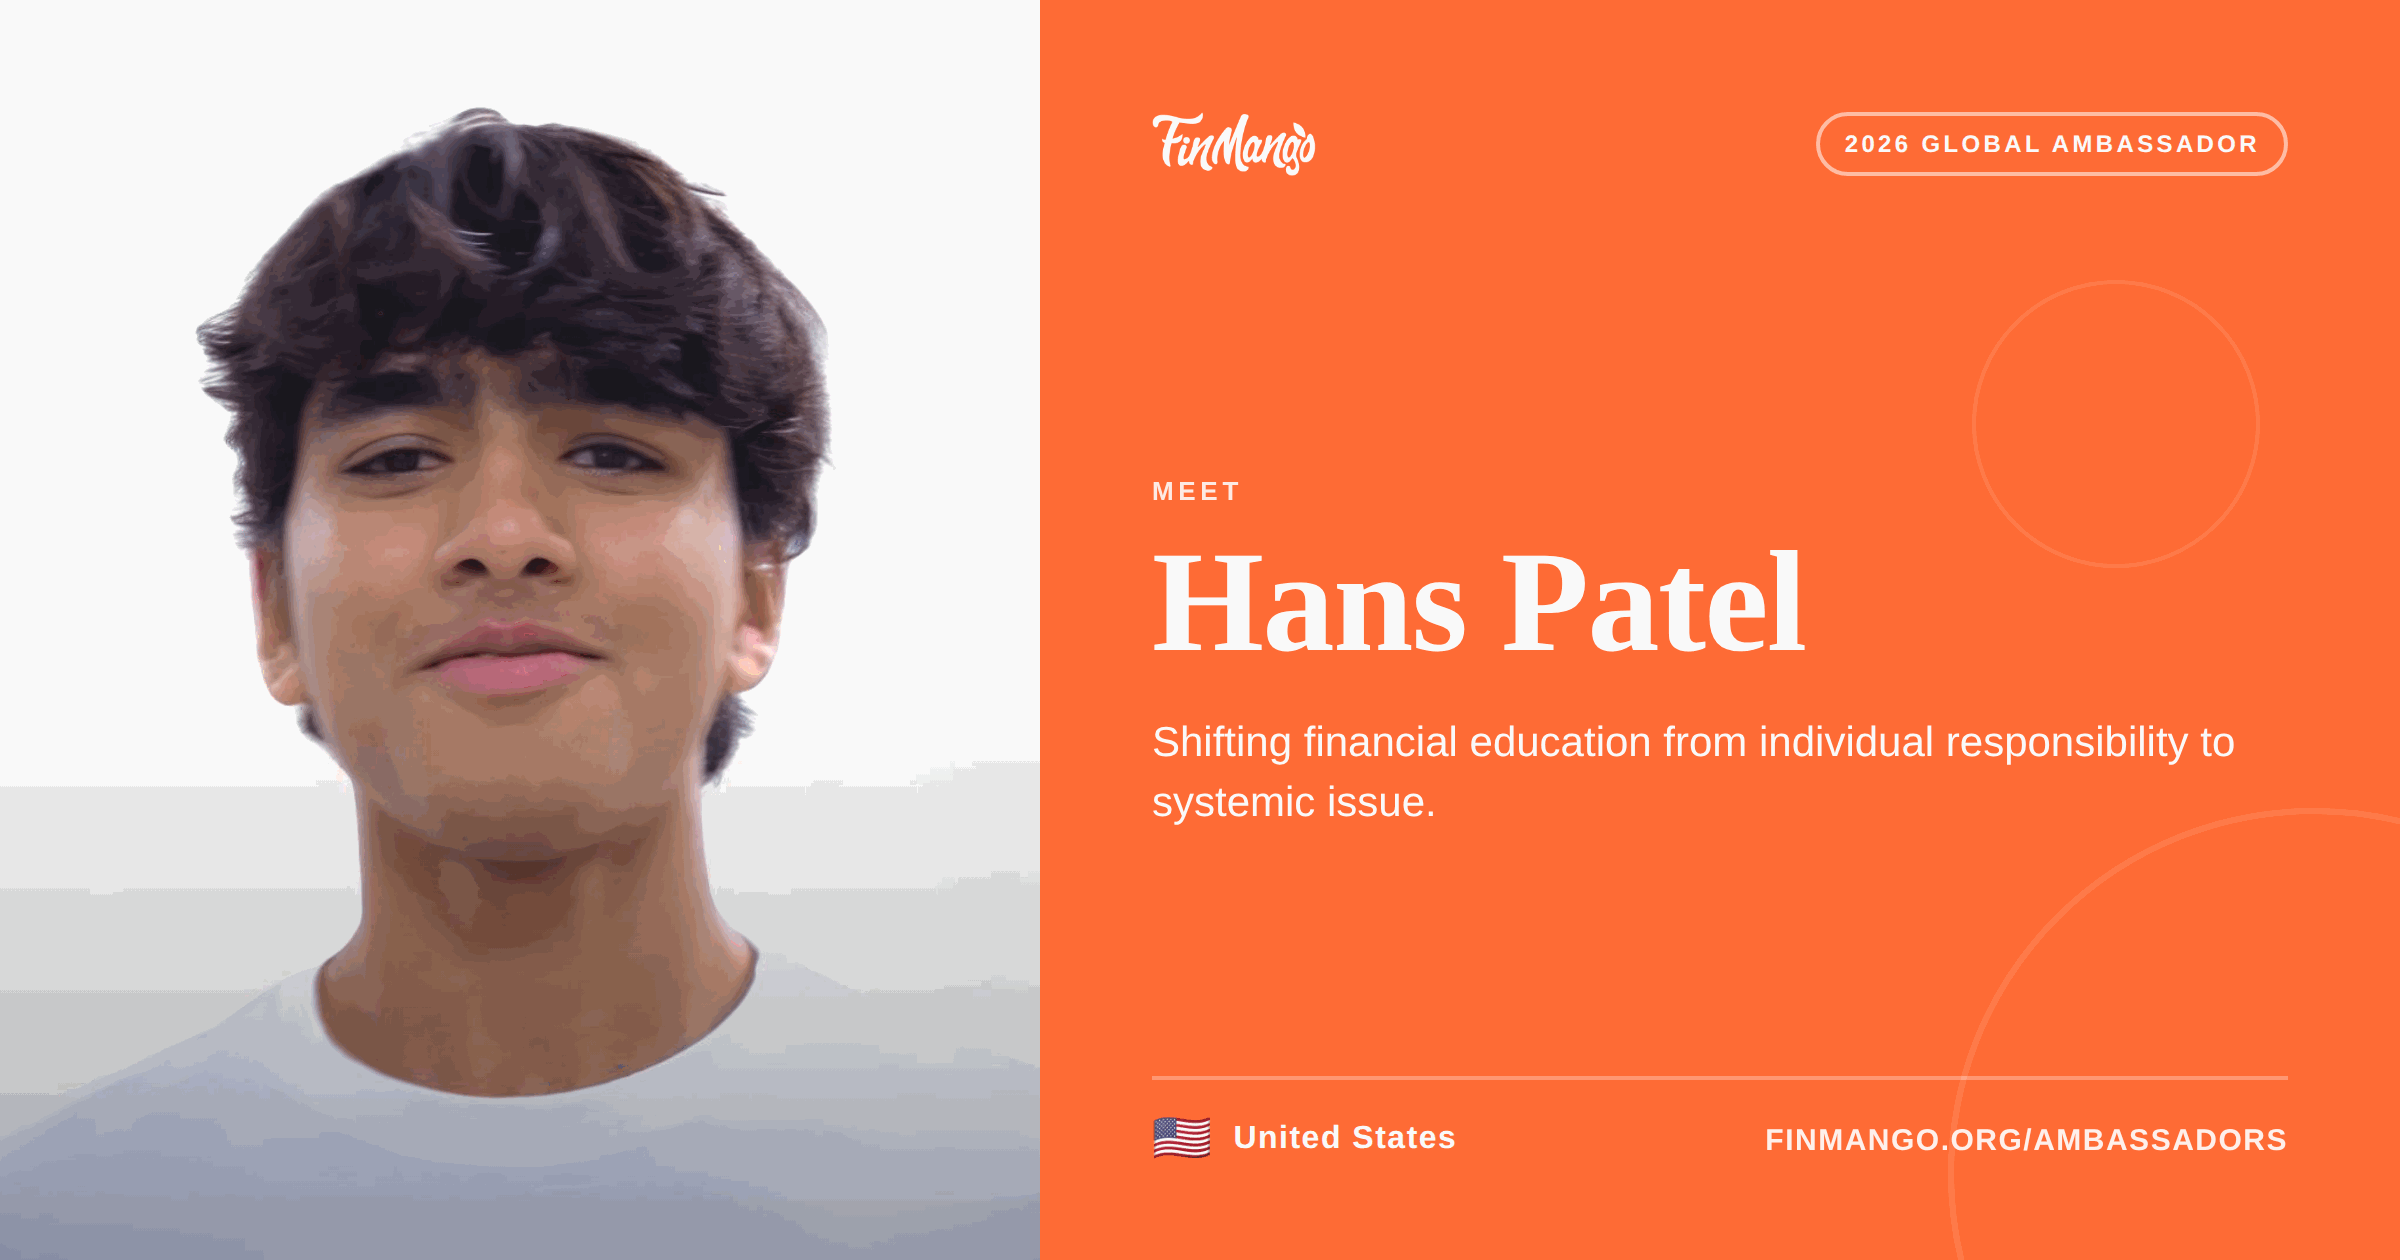
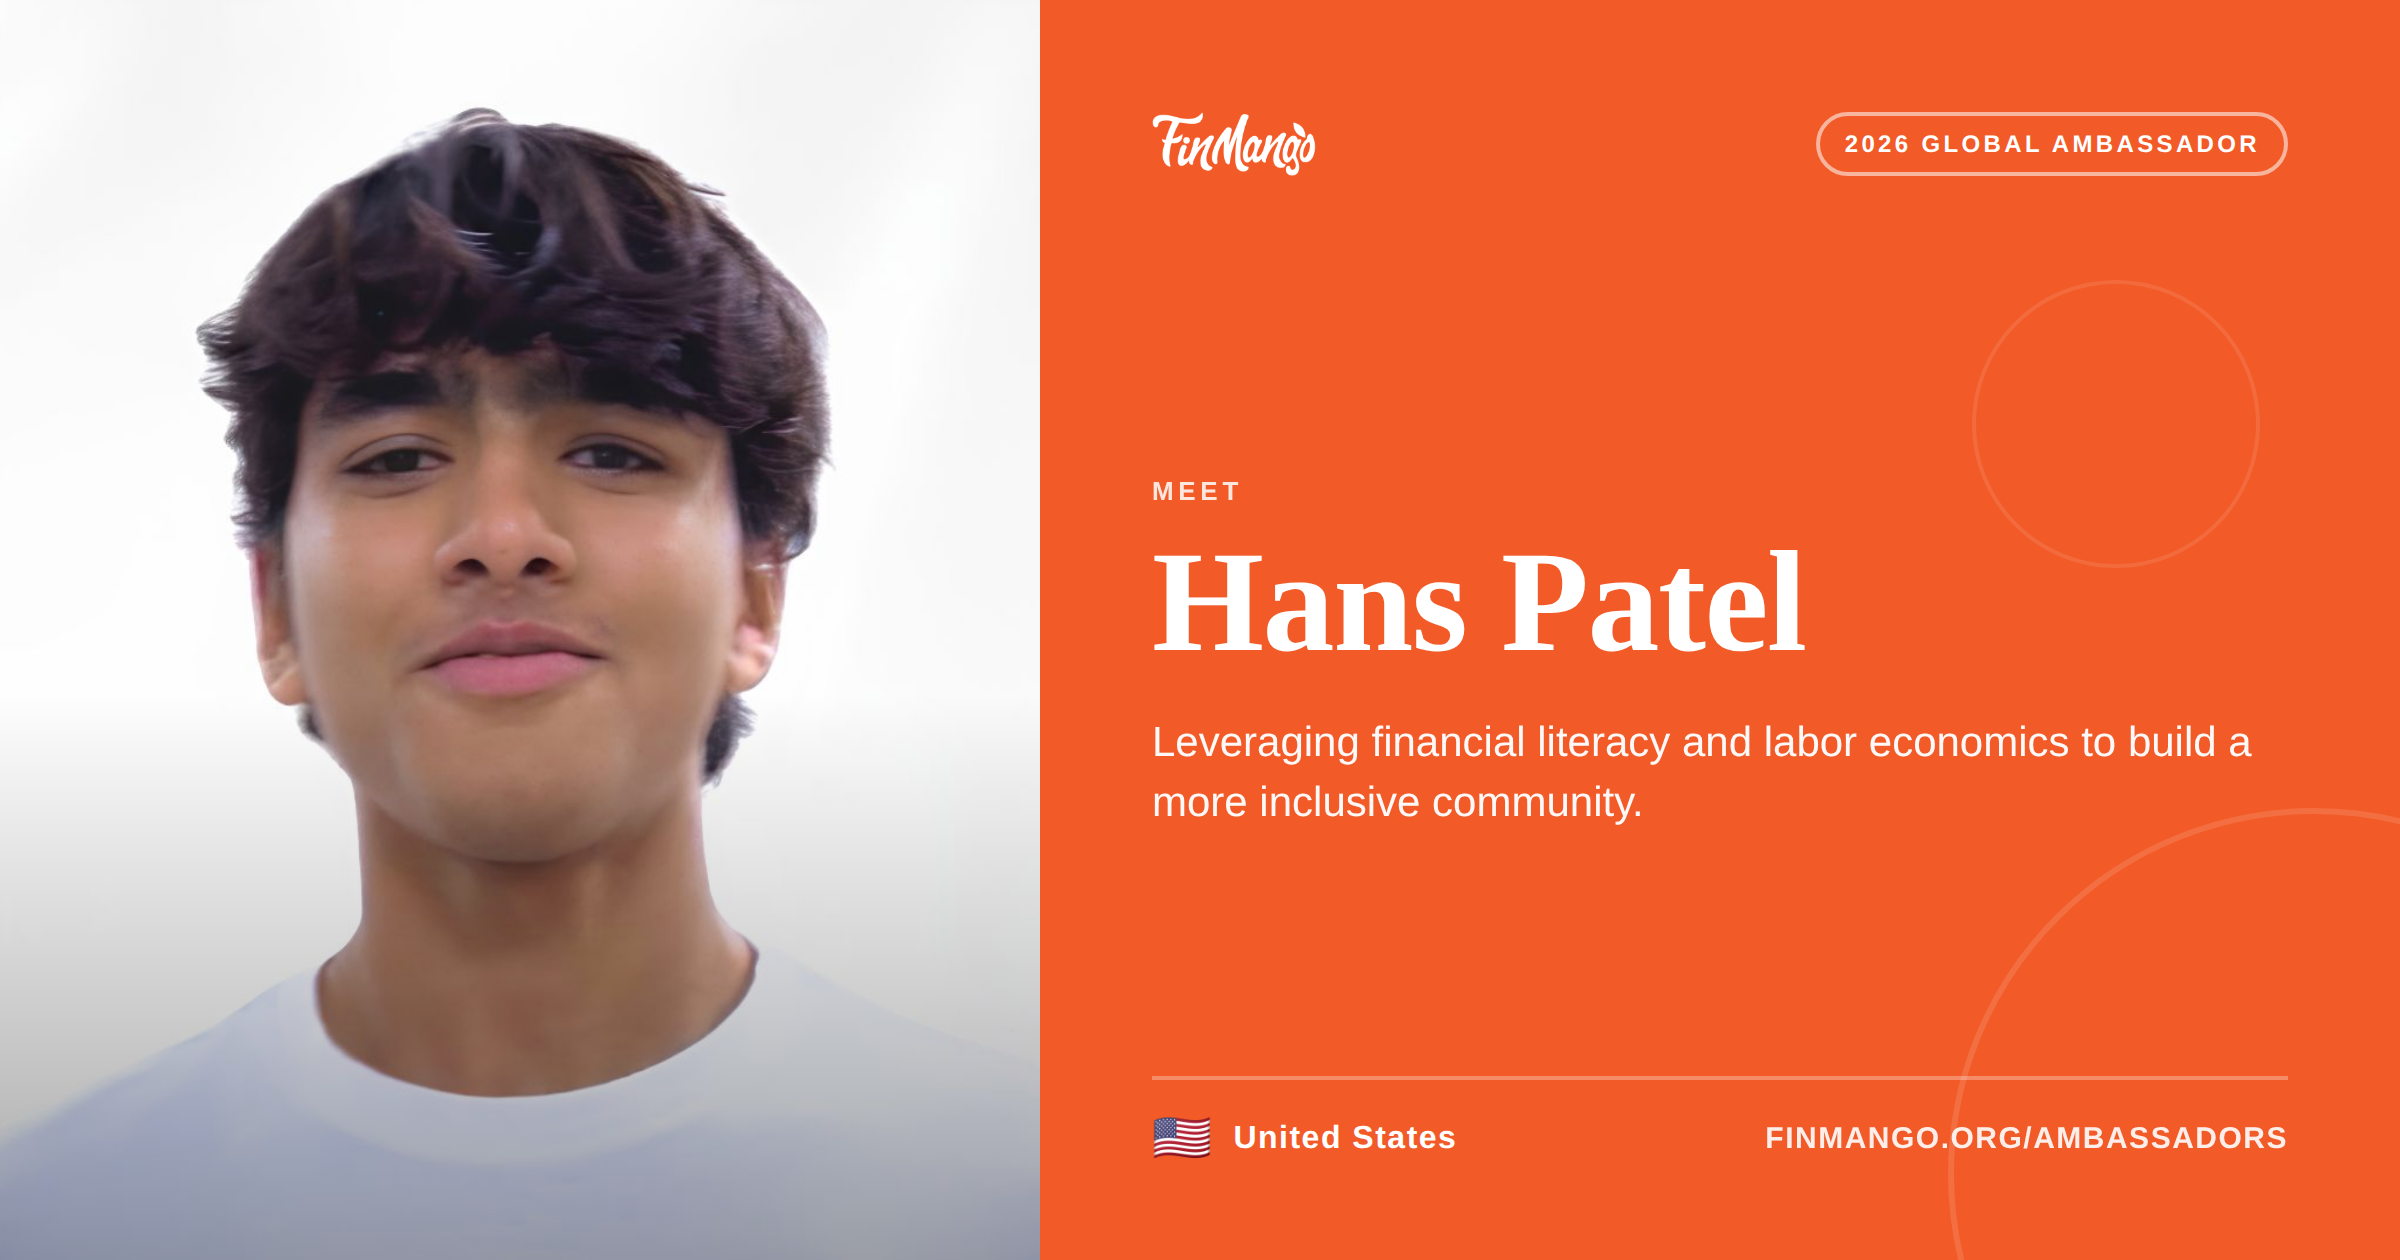
Update Hans Patel ambassador profile with new copy
Replace the mission tagline, bio, financial health quote, both
"In their own words" cards, and the ambassador plan with Hans's
revised text. Update the meta/OG/Twitter descriptions and the OG
generator tagline to match, and regenerate his OG share image.

Claude-Session: https://claude.ai/code/session_01SgdTasGdm35ezGT9Q2i18U

Changed region(s): [[0.4688, 0.5571, 0.9375, 0.65], [0.75, 0.8976, 0.9688, 0.9286]]

diff --git a/hans-patel.html b/hans-patel.html
@@ -5,7 +5,7 @@
 <meta charset="UTF-8">
 <meta name="viewport" content="width=device-width, initial-scale=1.0">
 <title>Hans Patel - 2026 Global Ambassador | FinMango</title>
-<meta name="description" content="Shifting financial education from individual responsibility to systemic issue. Hans Patel is a 2026 FinMango Global Ambassador.">
+<meta name="description" content="Leveraging financial literacy and labor economics to build a more inclusive community. Hans Patel is a 2026 FinMango Global Ambassador.">
 <meta name="keywords" content="financial literacy, FinMango ambassador, Hans Patel, USA">
 <meta name="author" content="FinMango">
 <link rel="icon" type="image/png" href="favicon.png">
@@ -25,7 +25,7 @@
 <meta property="og:type" content="profile">
 <meta property="og:url" content="https://www.finmango.org/hans-patel">
 <meta property="og:title" content="Hans Patel - 2026 Global Ambassador | FinMango">
-<meta property="og:description" content="Shifting financial education from individual responsibility to systemic issue.">
+<meta property="og:description" content="Leveraging financial literacy and labor economics to build a more inclusive community.">
 <meta property="og:image" content="https://www.finmango.org/ambassadors/hans-patel-og.png">
 <meta property="og:image:width" content="1200">
 <meta property="og:image:height" content="630">
@@ -35,7 +35,7 @@
 <meta name="twitter:card" content="summary_large_image">
 <meta name="twitter:image" content="https://www.finmango.org/ambassadors/hans-patel-og.png">
 <meta name="twitter:title" content="Hans Patel - 2026 Global Ambassador">
-<meta name="twitter:description" content="Shifting financial education from individual responsibility to systemic issue.">
+<meta name="twitter:description" content="Leveraging financial literacy and labor economics to build a more inclusive community.">
 
 <!-- Additional SEO -->
 <link rel="canonical" href="https://www.finmango.org/hans-patel">
@@ -1160,10 +1160,10 @@
           <span class="eyebrow">Global ambassador</span>
           <h1>Hans <em>Patel<svg class="hand-stroke" viewBox="0 0 300 12" preserveAspectRatio="none" aria-hidden="true"><path d="M4 8 C 50 3, 110 10, 160 6 S 260 4, 296 7"/></svg></em></h1>
           <p class="hero-tagline">
-            Shifting financial education from individual responsibility to systemic issue.
+            Leveraging financial literacy and labor economics to build a more inclusive community.
           </p>
           <p class="hero-bio">
-            Hans is a student at Bergen County Technical High School from River Edge, New Jersey. He's a founding officer of Futures Financials (18 chapters globally, 10,000+ students taught), executive team member of Project WhyFi (18,000 learners), and co-founder of TickerSphere — an investment platform now used by 7 top U.S. universities.
+            Hans is a student at Bergen County Technical High School from River Edge, New Jersey. In 2022, he co-founded Futures Financials where he now serves as the Chief Executive Officer where he himself started the 18 chapters that the organization has, raised over $40,000, and taught over 15,000 students globally. He hones in on the economics of labor where he serves as a research assistant at the Ethical Emerging Technologies Lab at Montclair State under Professor David Eisenberg and a researcher at Harvard University under Dr. Daniel Ebanks. He was also published in the Federal Reserve's Journal of Future Economists for his paper "Swiftonomics: Taylor Swift's Eras Tours Impact on the Economy."
           </p>
         </div>
 
@@ -1193,7 +1193,7 @@
     <div class="pull-quote-container">
       <span class="eyebrow">On financial health</span>
       <blockquote>
-        "I used to think <em>financial health</em> was a personal failing. My grandfather, a farmer in India, kept his cash in a jewelry box under his bed. It seemed irresponsible, but it wasn't his fault. Living his entire life in a rural village without access to banks or credit, he received no institutional support. He died with $127 in savings and a fully paid-off home he built dollar by dollar over 35 years. From his story, I learned financial health is not about knowledge alone, but whether the system allows that knowledge to be used."
+        "I used to think <em>financial health</em> was a personal failing. When I was admitted to my high school, there were students from all different counties from those with a well established curriculum to those with extremely poor funding. From day one, the effects were clear. During conversations the same financial literacy knowledge that one friend thought was 'too easy' felt impossible to another friend. Coming myself from a town and background that prepared me well for future financial independence, I was confused by this divergence. Through teaching financial literacy myself first through the financial literacy club at my high school to later starting Futures Financials, I saw how uncontrollable factors like incarceration, disabilities, income inequality, gender inequality were structural obstacles for many. In the future, I hope to fulfill my role of bringing communities together where we are moving closer and closer towards equality where no one is restricted by these factors."
       </blockquote>
       <cite>— Hans Patel, on what financial health means to them</cite>
     </div>
@@ -1209,12 +1209,12 @@
         <div class="philosophy-card">
           <div class="philosophy-num">01</div>
           <h3 class="philosophy-question">Why this work matters to me</h3>
-          <p class="philosophy-answer">It was my second year teaching financial literacy. We had a teach-in at a charter middle school in NYC and I assumed minimal effort would be needed. That illusion cracked quickly. 'What is a budget?' Jake asked with genuine curiosity. After the session, he told me he wanted to work in finance but had never been introduced to financial literacy. These students were not constrained by discipline, but by systems that never gave them a place to stand. Now, I am expanding financial literacy with one goal: no matter age, gender, race, income, geography, everyone should be able to use and learn financial literacy.</p>
+          <p class="philosophy-answer">I used to sit at Dunkin' after school doing homework while my mother was serving customers each evening. Seeing the chaos of customers made me so curious, and eventually I started voluntarily helping coworkers with their needs after I finished all my homework for the day. During a hiring interview, someone was rejected because of their disability: blindness. Although they had the capabilities, the bias that was fit into everyone's minds overshadowed the skills that the applicant had. Later joining the EET Lab at Montclair State I realized that the American Disabilities Act was regularly disregarded especially by Fortune 500 companies with dedicated accessibility landing pages. This revealed the hypocrisy of businesses, and how far society is yet to be equal.</p>
         </div>
         <div class="philosophy-card">
           <div class="philosophy-num">02</div>
           <h3 class="philosophy-question">The biggest barrier I see</h3>
-          <p class="philosophy-answer">One of my favorite movies is The Big Short because it exposes how predatory lending profits from illiteracy. While subprime mortgages are no longer the main vehicle, the same mechanism exists today through high-interest cards, buy-now-pay-later services, and no-credit-checks. These products target people with limited liquidity. Predatory lending undermines financial health by removing margin and making recovery impossible — proving education alone cannot overcome structural exploitation.</p>
+          <p class="philosophy-answer">When we started Futures Financials, New Jersey was one of the worst states for regulating financial literacy education among students and still today only 30 out of 50 states mandate it. But the issue still within these 30 states that do require financial literacy is if that education is even effective in achieving the intended outcome. Yes and no. Although some students did have dedicated financial literacy coursework that taught them practical and actionable steps, the vast majority of students were taught classes that although briefly touched "finance" it was not as useful for the cause that these courses were created for. In my high school for example, students can achieve the financial literacy credit through classes like entrepreneurship, intro to research, economics, and even AP Government. While these courses are educational in their own respect and do partially align with financial literacy, the concepts discussed will not allow the students to build financially successful lives. It is loopholes like these that serve as a threat to our progress where in the chase to fulfill a requirement we lose the purpose that it was created for.</p>
         </div>
       </div>
     </div>
@@ -1225,7 +1225,7 @@
     <div class="plan-container">
       <div class="plan-grid">
         <span class="eyebrow">Their plan as ambassador</span>
-        <p class="plan-text">As an ambassador, my role would be to shift financial education from an individual responsibility to a systemic issue. I would continue teaching financial literacy while pairing it with policy work. I'm continuing my research with Harvard researcher Dr. Ebanks to evaluate current financial literacy curricula and their practicality, and I plan to work with legislators to help close gaps in financial education across socio-economic groups. This summer, I'm launching a financial literacy fellowship focused on empowering participants to create their own initiatives.</p>
+        <p class="plan-text">As an ambassador I want to build a bridge between my specialization in labor economics and my work in financial literacy. Through FinMango's extensive research I want to bring my conclusions from my ongoing research positions to write research notes and even draft full papers for the organization to bring awareness to the realities in one of the largest economic factors in the world. And with its focus on financial health, I want to focus on the youth bringing interactive lessons using TikTok references and relatable style of teaching where the students understand and start applying financial literacy into their lives as soon as possible.</p>
       </div>
     </div>
   </section>

diff --git a/ambassadors/generate-og.js b/ambassadors/generate-og.js
@@ -5,7 +5,7 @@ const AMBASSADORS_2026 = [
   { slug: 'david-johnson',       name: 'David Johnson',        photo: '../33.jpg', flag: '🇺🇸', country: 'United States',      tagline: 'Connecting the fight for financial freedom to the fight for true equality.' },
   { slug: 'dylan-forman',        name: 'Dylan Forman',         photo: '../34.jpg', flag: '🇺🇸', country: 'United States',      tagline: 'Building equitable access to financial information and technology.' },
   { slug: 'pranita-jadhav',      name: 'Pranita Jadhav',       photo: '../35.jpg', flag: '🇮🇳', country: 'India',              tagline: 'Turning complex financial concepts into simple, actionable steps.' },
-  { slug: 'hans-patel',          name: 'Hans Patel',           photo: '../36.jpg', flag: '🇺🇸', country: 'United States',      tagline: 'Shifting financial education from individual responsibility to systemic issue.' },
+  { slug: 'hans-patel',          name: 'Hans Patel',           photo: '../36.jpg', flag: '🇺🇸', country: 'United States',      tagline: 'Leveraging financial literacy and labor economics to build a more inclusive community.' },
   { slug: 'onyemeri-ihegazie',   name: 'Onyemeri Ihegazie',    photo: '../37.jpg', flag: '🇳🇬', country: 'Nigeria',            tagline: 'Building real, relatable financial health conversations for young Nigerians.' },
   { slug: 'harshil-shah',        name: 'Harshil Shah',         photo: '../38_Updated.jpg', flag: '🇺🇸', country: 'United States',      tagline: 'Co-founder of the Carolina Wealth Initiative — teaching financial health across campus and community.' },
   { slug: 'eduardo-charles-alba',name: 'Eduardo Charles Alba', photo: '../39.jpg', flag: '🇩🇴', country: 'Dominican Republic', tagline: 'Connecting data, institutions, and communities to make financial health actionable.' },
